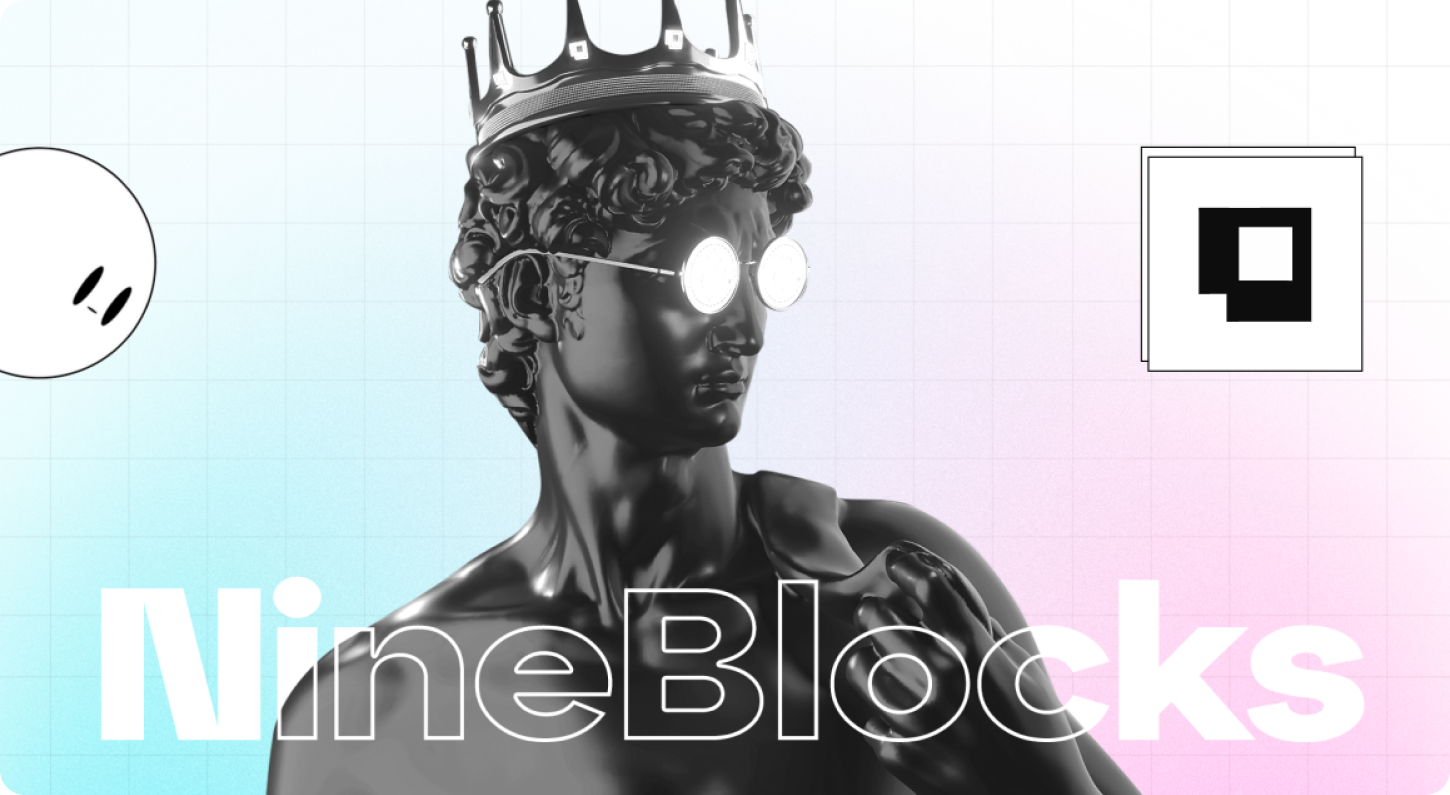
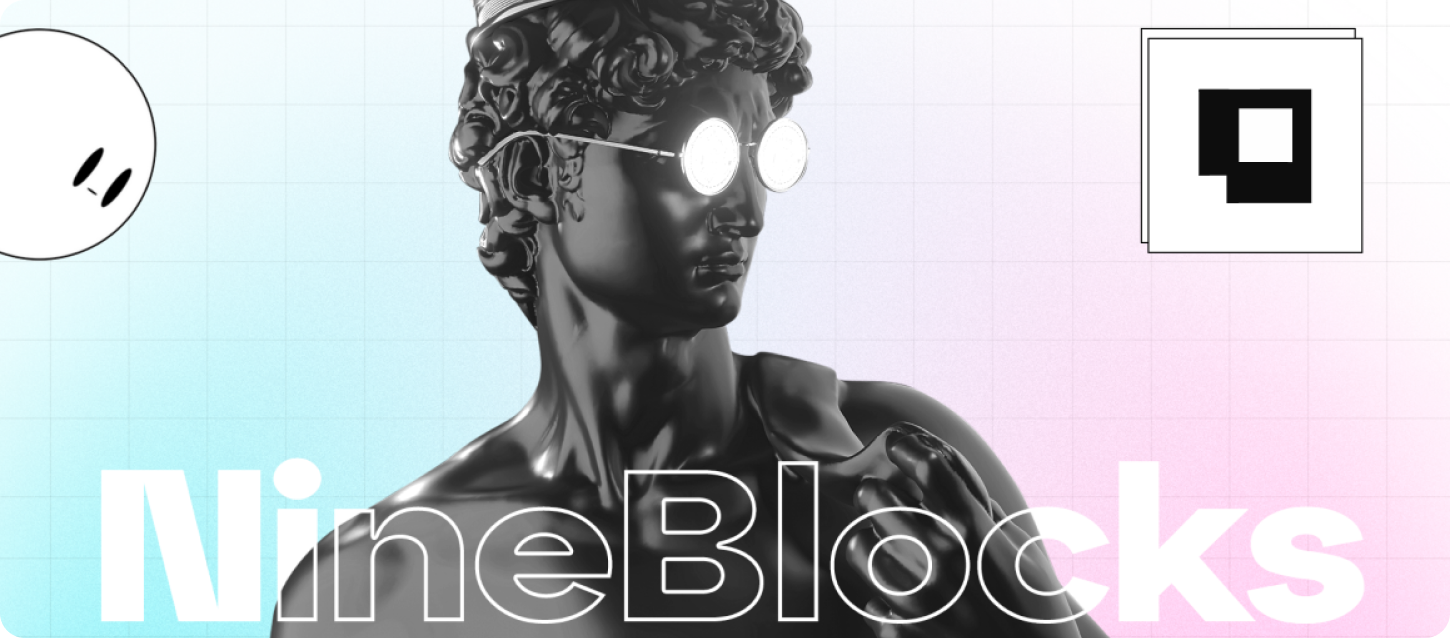
fix/responsive

diff --git a/style.css b/style.css
@@ -23,6 +23,8 @@ body{
   color:#000;
 }
 
+
+
 .centerUseless{
   width: 100%;
   max-width: 1635px;
@@ -78,7 +80,7 @@ body{
 }
 
 .section.s1-home{
-  padding: 0;
+  padding: 50px;
 }
 
 .s1-home{
@@ -119,7 +121,7 @@ body{
   font-family: 'Montserrat';
   font-style: normal;
   font-weight: 400;
-  font-size: 28px;
+  font-size: 24px;
   line-height: 150%;
   color:#000;
 }
@@ -130,6 +132,7 @@ body{
   justify-content: space-between;
   width: 100%;
   max-width: 100%;
+  padding: 50px;
 }
 
 .threeUselles{
@@ -170,7 +173,7 @@ body{
   grid-template-columns: 1fr 1fr 1fr 1fr 1fr;
   flex-wrap: wrap;
   /* gap: 10%; */
-  padding: 0;
+  padding: 0 100px;
 }
 
 .listPhotosUsers>li{
@@ -182,7 +185,7 @@ body{
 
 .listPhotosUsers>li>img{
   width: 100%;
-  max-width: 150px;
+  max-width: 100px;
   margin-bottom: 9px;
   margin-top: 50px;
 }
@@ -191,7 +194,7 @@ body{
   font-family: 'Recoleta';
   font-style: normal;
   font-weight: 400;
-  font-size: 22px;
+  font-size: 16px;
   line-height: 150%;
   color:#000;
 }
@@ -200,9 +203,13 @@ body{
   font-family: 'Recoleta';
   font-style: normal;
   font-weight: 400;
-  font-size: 34px;
+  font-size: 22px;
   line-height: 150%;
   color:#000;
+}
+
+.fourUselles { 
+  padding: 0 50px;
 }
 
 .fourCenterUselles{
@@ -241,7 +248,7 @@ body{
 
 .fourProjectTitleUselles{
   display: flex;
-  align-items: flex-end;
+  align-items: center;
   justify-content: space-between;
 }
 
@@ -251,7 +258,7 @@ body{
   font-weight: 400;
   font-size: 20px;
   line-height: 150%;
-  color:#000;
+  color:rgb(81, 81, 81);
 }
 
 .fourProjectTitleUselles>h3{
@@ -276,7 +283,8 @@ body{
   display: flex;
   justify-content: space-between;
   flex-wrap: wrap;
-  gap: 31px;
+  gap: 25px;
+  padding: 0 50px;
 }
 
 .fiveCardUsellesList{
@@ -284,7 +292,7 @@ body{
   flex-wrap: wrap;
   gap: 20px; 
   width: 100%;  
-  max-width: 440px;
+  max-width: 30%;
   height: 372px;
   margin-bottom: 160px;                                                                                                                                                                                                                                                                                                                                                                                                                                                                                                                                                                                                                                                                                                                                                                                                                                                                                                                                                                                                                                                                                                                                                                                                                                                                                                                                                                                                                                                                                                                                                                                                                                                                                                                                                                                                                                                                                                                                                                                                                                                                                                                                                                                                                                                                                                                                                                                                                                                                                                                                                                                                                                                                                                                                                                                                                                                                                                                                                                                                                                                                                                                                                                                                                                                                                                                                                                                                                                                                                                                                                                                                                                                                                                                                                                                                                 
 }
@@ -354,6 +362,7 @@ footer{
 @media(max-width:1399px){
   .listPhotosUsers{
     grid-template-columns: 1fr 1fr 1fr 1fr;
+    padding: 0 25px;
   }
 }
 
@@ -377,6 +386,19 @@ footer{
     max-width: 100%;
   }
 
+  .section.s1-home, .twoUsellesCenter{ 
+    padding: 10px;
+  }
+
+  .threeTitleUselles>p { 
+    font-size: 22px;
+    padding: 0 10px;
+  }
+
+  .fiveCardUsellesList { 
+    margin-bottom: 50px;
+  }
+
   .uselessYear:before{
     left: auto;
     bottom: -5px;
@@ -386,6 +408,10 @@ footer{
   .lottie-w{
     width: 100%;
     max-width: 100%;
+  }
+
+  .fiveUselles { 
+    padding: 10px;
   }
 
   .max820-920-w.mob-marg-lr-20px,
@@ -412,7 +438,7 @@ footer{
   }
 
   .userUselles>span{
-    font-size: 16px;
+    font-size: 14px;
   }
 
   .promo-p{
@@ -442,6 +468,26 @@ footer{
     display: none;
   }
 
+  .fourUselles { 
+    padding: 10px;
+  }
+
+  .fourProjectTitleUselles>h3 { 
+    font-weight: 300;
+  }
+
+  .fourProjectTitleUselles { 
+    flex-direction: column-reverse;
+  }
+
+  
+
+  .fourProjectTitleUselles>p { 
+    font-size: 18px;
+  }
+
+
+
   footer{
     flex-direction: column;
   }
@@ -455,6 +501,13 @@ footer{
     font-size: 41px;
   }
 
+
+  .footerData {
+    flex-direction: column;
+    justify-content: center;
+    display: flex;
+    align-items: center;
+  }
   .footerData>span{
     line-height: 1;
   }
@@ -480,7 +533,7 @@ footer{
   }
 
   .fourProjectTitleUselles>p{
-    font-size: 21px;
+    font-size: 16px;
   }
 
   footer{

diff --git a/index.html b/index.html
@@ -327,6 +327,17 @@
   </div>
   <div class="fourProjectSingle">
     <a href="" class="fourProjectUselles">
+      <img src="./imgs/imbored.png" alt="Projeto ImBored">
+      <div class="fourProjectTitleUselles">
+        <h3>Im Bored</h3>
+        <p>NFT Access Pass</p>
+      </div>
+      <span>NFT Collection to have benefits in our projects</span>
+    </a>
+</div>
+
+  <div class="fourProjectSingle">
+    <a href="" class="fourProjectUselles">
       <img src="./imgs/nineforest.png" alt="Projeto Nineforest">
       <div class="fourProjectTitleUselles">
         <h3>NineForest</h3>
@@ -357,12 +368,12 @@
 </div>
 <div class="fourProjectSingle">
   <a href="" class="fourProjectUselles">
-    <img src="./imgs/bcredi.png" alt="Projeto bCredi">
+    <img src="./imgs/bacco.png" alt="Projeto Bacco">
     <div class="fourProjectTitleUselles">
-      <h3>Re-Branding bcredi</h3>
-      <p>Branding_Pesquisa</p>
+      <h3>Bacco</h3>
+      <p>App & Smart-Wine Store</p>
     </div>
-    <span>Desenvolvimento de peças e pesquisa para nova marca bcredi</span>
+    <span>Developed the Brand, App and launched a Autonomous</span>
   </a>
 </div>
 </section>
@@ -390,9 +401,9 @@
   <div class="fiveCardUsellesList">
     <div class="fiveCardUselles">
       <a href="">
-        <img src="./imgs/cardsFive3.png" alt="Card NFT Felipe Neto">
-        <p>NFT Felipe Neto</p>
-        <span>NFT 3D model for the Felipe Neto</span>
+        <img src="./imgs/cardsFive3.png" alt="Card Meta">
+        <p>NFT Meta Creation</p>
+        <span>NFT 3D model for Meta Launch</span>
       </a>
     </div>
   </div>
@@ -409,7 +420,7 @@
     <div class="fiveCardUselles">
       <a href="">
         <img src="./imgs/cardsFive5.png" alt="Card Plataforma MRV">
-        <p>real estate tokenization</p>
+        <p>Real estate tokenization</p>
         <span>Create web3 model for Real Estate Tokenization</span>
       </a>
     </div>
@@ -427,7 +438,7 @@
 <!-- 05 -->
 <footer>
   <div class="footerImg">
-    <img src="./imgs/footer.png" alt="Logo da Uselles Labs">
+    <img src="./imgs/footer 1.png" alt="Logo da Uselles Labs">
   </div>
   <div class="footerData">
     <p>Oh,tks :)</p>
